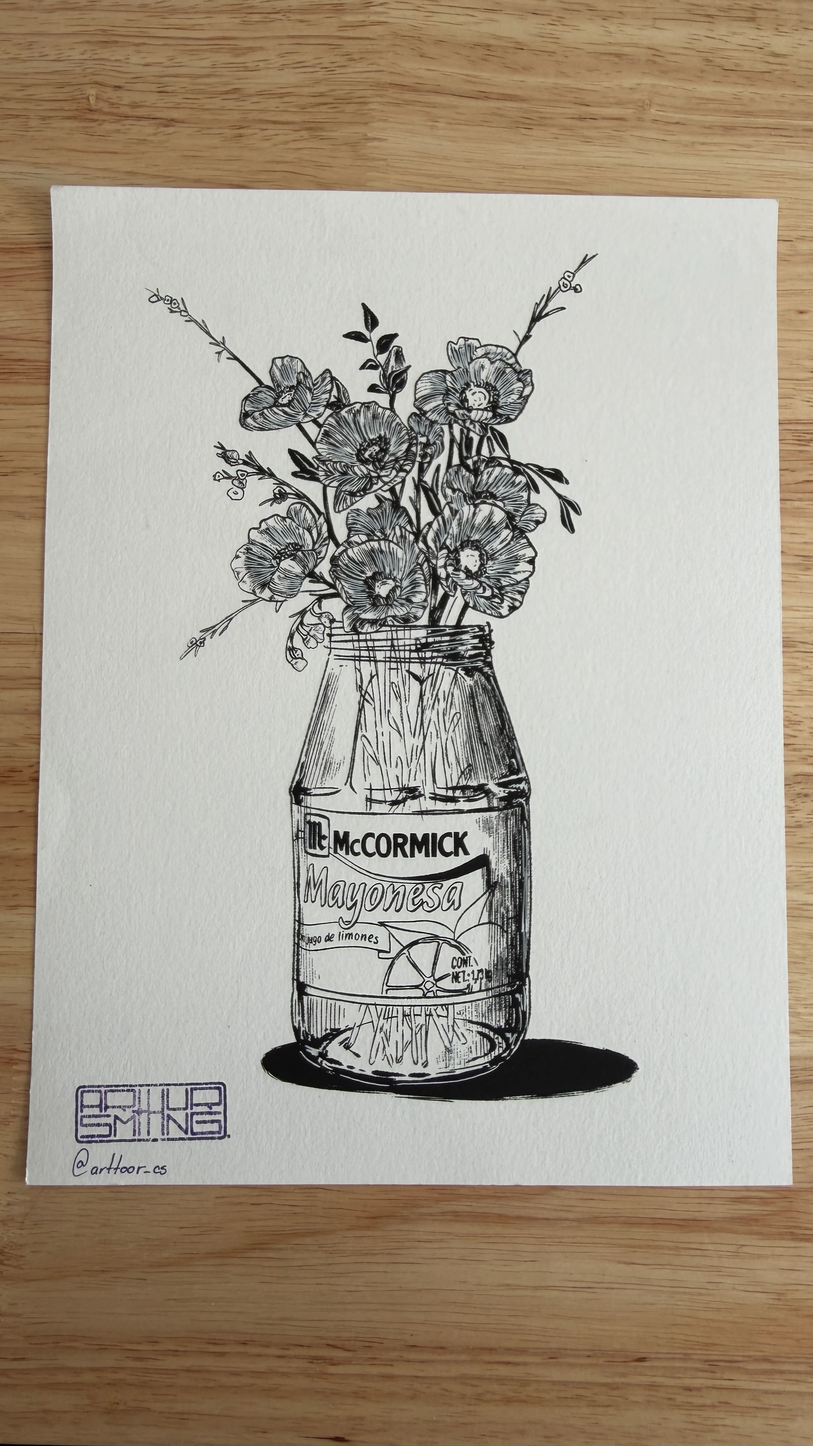
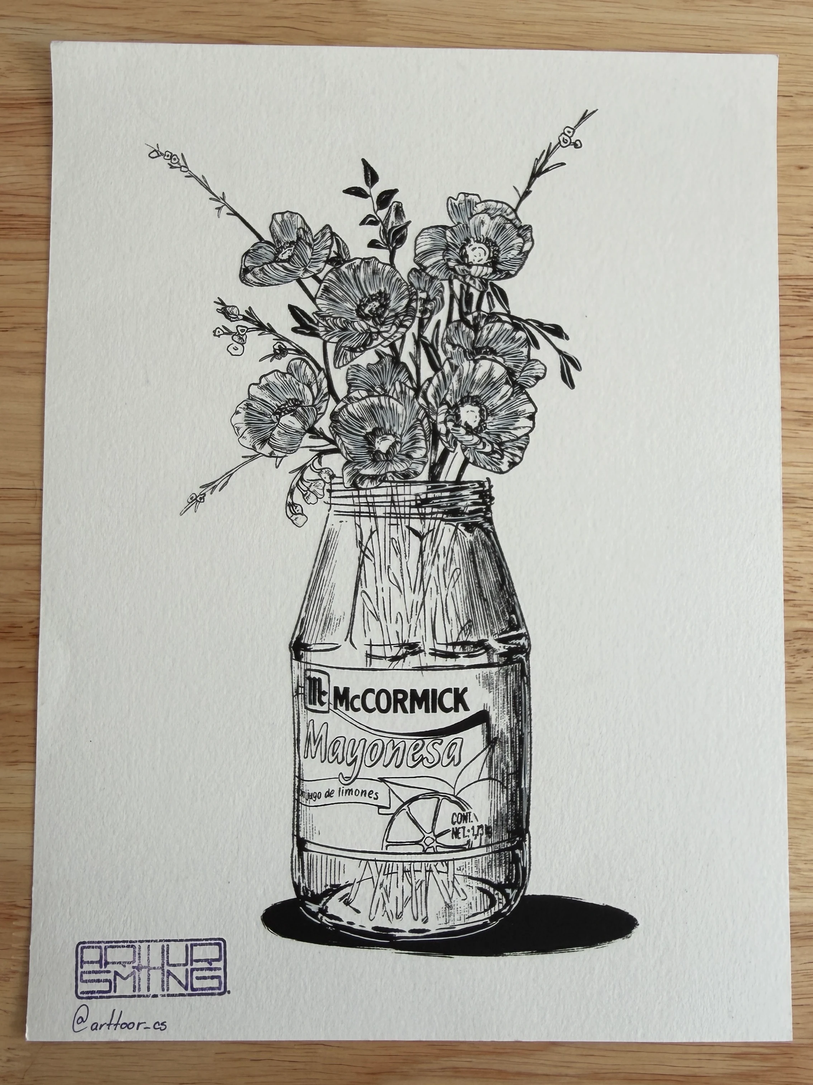
Bake the hero photo crop into the actual image files
The card's crop was a CSS object-position trick, so clicking through
to the lightbox still opened the original uncropped, bottom-heavy
photo. Re-cropped print-01-01's three tiers directly (same 3:4 ratio,
centered on the print) so the card and the fullscreen lightbox now
show the same framing.

diff --git a/css/styles.css b/css/styles.css
@@ -456,13 +456,12 @@ html.is-lightbox-open{ overflow: hidden; }
   display: block;
   width: 100%;
   height: 100%;
+  /* the source file (images/prints/print-01-01*.webp) is pre-cropped to
+     this same 3:4 ratio, centered on the print itself rather than the
+     raw photo's frame — see the prints-data.js images comment. cover
+     here is just a safety net for any rounding difference. */
   object-fit: cover;
-  /* the actual print (not just the raw photo frame) sits roughly 13%-82%
-     down the source photo, with a lot more bare table above it than
-     below — plain top/center anchoring left it looking bottom-heavy.
-     40% centers the crop window on the print itself instead of the
-     photo's own bounds. */
-  object-position: center 40%;
+  object-position: center;
 }
 .print-card__thumbs{
   display: flex;

diff --git a/js/prints-data.js b/js/prints-data.js
@@ -16,6 +16,13 @@
  *    instead of a working buy button.
  * 4. portfolioId is optional — set it to a WORKS id (js/data.js) to
  *    link back to the original digital piece, if there is one.
+ * 5. images[0] is used as the card's main photo (see .print-card__main
+ *    in css/styles.css) at a fixed 3:4 ratio, and is also what opens in
+ *    the lightbox — so if the raw photo needs a specific crop to look
+ *    right (e.g. it's a tall phone photo with a lot of bare table),
+ *    pre-crop that source file itself rather than trying to fix it with
+ *    CSS object-position, so the lightbox's full-res view matches what
+ *    the card shows instead of opening the uncropped original.
  */
 window.PRINTS = [
   {
